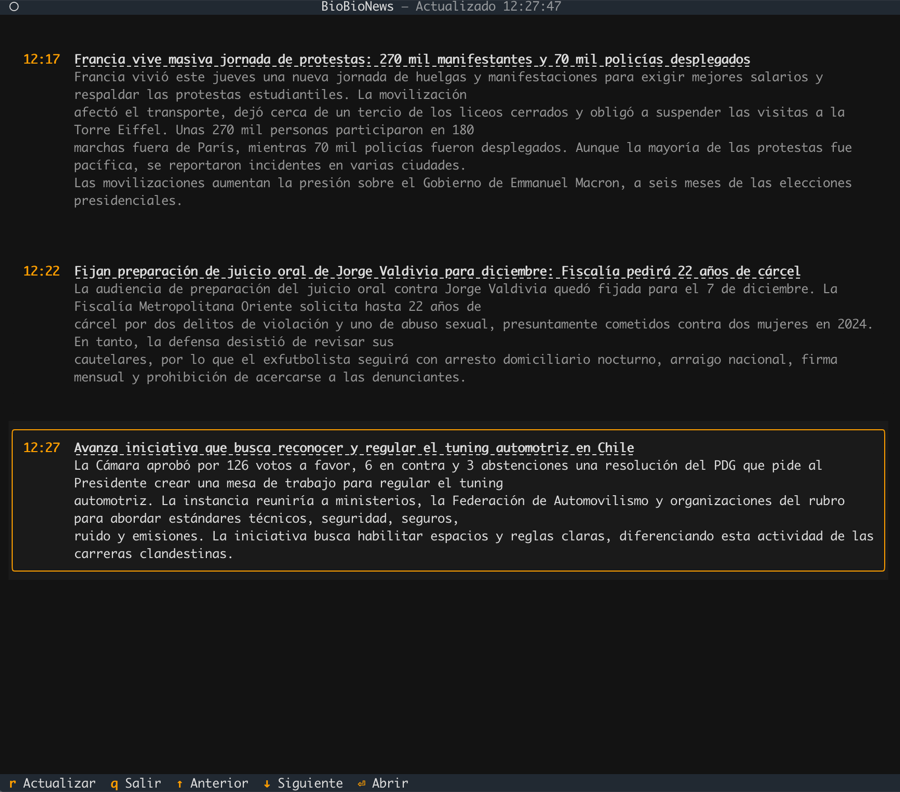
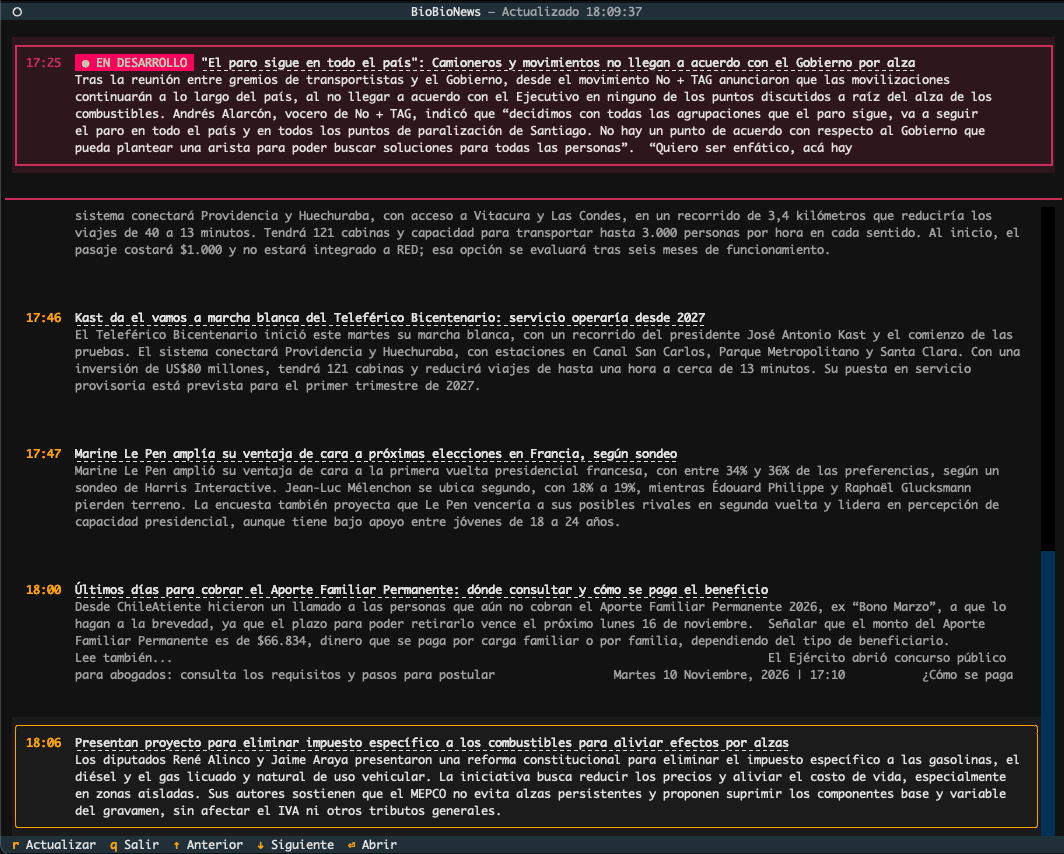
feat: filter football/entertainment news and pin live news
- Exclude football (national and international), entertainment and
  Dopamina news by category slug and URL path
- Pin news flagged en_desarrollo/nota_en_vivo above the list with a
  red badge in the TUI, and print them first in --plain mode
- Over-fetch from the API so the limit is still met after filtering

diff --git a/src/biobionews/tui.py b/src/biobionews/tui.py
@@ -25,19 +25,30 @@ class NewsList(VerticalScroll):
 
 
 class NewsItem(Horizontal):
-    def __init__(self, url: str, hour: str, title: str, body: str) -> None:
-        super().__init__()
+    def __init__(
+        self,
+        url: str,
+        hour: str,
+        title: str,
+        body: str,
+        live_label: Optional[str] = None,
+    ) -> None:
+        super().__init__(classes="-live" if live_label else "")
         self.url = url
         self.hour = hour
         self.title_text = title
         self.body_text = body
+        self.live_label = live_label
 
     def compose(self) -> ComposeResult:
         yield Static(self.hour, classes="hour")
         with Vertical(classes="text"):
-            yield Static(
-                Text(self.title_text, style=Style(link=self.url)), classes="title"
-            )
+            title = Text()
+            if self.live_label:
+                title.append(f" ● {self.live_label} ", style="bold white on red")
+                title.append(" ")
+            title.append(self.title_text, style=Style(link=self.url))
+            yield Static(title, classes="title")
             yield Static(Text(self.body_text), classes="body")
 
 
@@ -47,6 +58,11 @@ class NewsApp(App[None]):
     CSS = """
     Screen { align-horizontal: center; }
     #news { width: 100%; padding: 0 1; }
+    #pinned {
+        width: 100%; height: auto; max-height: 50%; padding: 0 1 1 1;
+        border-bottom: heavy $error;
+    }
+    #pinned.-empty { display: none; }
     NewsItem { height: auto; padding: 0 1; margin-top: 1; border: round transparent; }
     NewsItem.-selected { border: round $warning; background: $boost; }
     NewsItem .hour { width: 7; color: $warning; text-style: bold; }
@@ -54,6 +70,10 @@ class NewsApp(App[None]):
     NewsItem .title { text-style: bold; }
     NewsItem .body { color: $text-muted; }
     NewsItem.-selected .body { color: $text; }
+    NewsItem.-live { border: heavy $error; background: $error 15%; }
+    NewsItem.-live .hour { color: $error; }
+    NewsItem.-live .body { color: $text; }
+    NewsItem.-live.-selected { border: heavy $warning; }
     .status { color: $text-muted; }
     """
     BINDINGS = [
@@ -77,12 +97,13 @@ class NewsApp(App[None]):
 
     def compose(self) -> ComposeResult:
         yield Header()
+        yield NewsList(id="pinned", classes="-empty")
         yield NewsList(Static("Cargando...", classes="status"), id="news")
         yield Footer()
 
     def on_mount(self) -> None:
         if self.max_width:
-            for selector in ("Header", "#news", "Footer"):
+            for selector in ("Header", "#pinned", "#news", "Footer"):
                 self.query_one(selector).styles.max_width = self.max_width
         self.action_refresh()
         self.set_interval(REFRESH_SECONDS, self.action_refresh)
@@ -110,13 +131,15 @@ class NewsApp(App[None]):
         self.selected = len(items) - 1 if index < 0 else min(index, len(items) - 1)
         for position, item in enumerate(items):
             item.set_class(position == self.selected, "-selected")
-        container = self.query_one("#news", NewsList)
-        if self.selected == 0:
+        item = items[self.selected]
+        container = item.parent
+        regular = list(container.query_children(NewsItem))
+        if item is regular[0]:
             container.scroll_home(animate=False)
-        elif self.selected == len(items) - 1:
+        elif item is regular[-1]:
             container.scroll_end(animate=False)
         else:
-            items[self.selected].scroll_visible(animate=False)
+            item.scroll_visible(animate=False)
 
     def action_move(self, delta: int) -> None:
         self.select(self.selected + delta)
@@ -146,7 +169,9 @@ class NewsApp(App[None]):
         self.sub_title = f"Actualizado {datetime.now():%H:%M:%S}"
 
     async def render_news(self) -> None:
+        pinned = self.query_one("#pinned", NewsList)
         container = self.query_one("#news", NewsList)
+        live: List[NewsItem] = []
         items: List[NewsItem] = []
         for new in self.news:
             title = get_cleaned(new.post_title)
@@ -154,7 +179,13 @@ class NewsApp(App[None]):
                 new.post_content, new.resumen_de_ia, self.lines, self.text_width
             )
             body = "\n".join(get_cleaned(line) for line in text)
-            items.append(NewsItem(new.post_URL, new.post_hour, title, body))
+            item = NewsItem(new.post_URL, new.post_hour, title, body, new.live_label)
+            (live if new.live_label else items).append(item)
+        # Newest live news first, pinned above the scrolling list
+        live.reverse()
+        await pinned.remove_children()
+        await pinned.mount_all(live)
+        pinned.set_class(not live, "-empty")
         await container.remove_children()
         await container.mount_all(items)
         self.select(self.selected)

diff --git a/src/biobionews/biobio.py b/src/biobionews/biobio.py
@@ -1,5 +1,5 @@
 from dataclasses import dataclass
-from typing import List
+from typing import Any, Dict, List, Optional
 
 import click
 import desert
@@ -7,6 +7,39 @@ import marshmallow
 import requests
 
 API_URL = "https://www.biobiochile.cl/lista/api/get-todo?limit={limit}"
+
+# Category slugs (primary, secondary or any in post_categories) to hide
+EXCLUDED_CATEGORIES = frozenset(
+    {
+        # Futbol nacional
+        "futbol",
+        "futbol-nacional",
+        "colo-colo",
+        "universidad-catolica",
+        "universidad-de-chile",
+        "la-roja",
+        # Futbol internacional
+        "futbol-internacional",
+        "notas-futbol-internacional",
+        "chilenos-en-el-exterior",
+        # Espectaculos y farandula
+        "espectaculos-y-tv",
+        "notas-espectaculos-tv",
+        "celebridades",
+        "tv",
+        "cine-y-series",
+        "notas-cortas",
+        "dopamina",
+    }
+)
+
+# URL path prefixes to hide, catches subcategories missing from the list above
+EXCLUDED_PATHS = (
+    "/noticias/deportes/futbol/",
+    "/noticias/deportes/futbol-internacional/",
+    "/noticias/espectaculos-y-tv/",
+    "/noticias/dopamina/",
+)
 
 
 @dataclass
@@ -16,18 +49,62 @@ class New:
     post_content: str
     resumen_de_ia: str
     post_URL: str
+    en_desarrollo: Optional[bool] = False
+    nota_en_vivo: Optional[bool] = False
+
+    @property
+    def live_label(self) -> Optional[str]:
+        """Badge for live or developing news, None for regular news."""
+        if self.nota_en_vivo:
+            return "EN VIVO"
+        if self.en_desarrollo:
+            return "EN DESARROLLO"
+        return None
 
 
 schema = desert.schema(New, meta={"unknown": marshmallow.EXCLUDE}, many=True)
 
 
+def is_live(item: Dict[str, Any]) -> bool:
+    return bool(item.get("en_desarrollo") or item.get("nota_en_vivo"))
+
+
+def is_excluded(item: Dict[str, Any]) -> bool:
+    slugs = {item.get("primary"), item.get("secondary")}
+    slugs.update(category.get("slug") for category in item.get("post_categories") or [])
+    if slugs & EXCLUDED_CATEGORIES:
+        return True
+    url = item.get("post_URL") or ""
+    return any(path in url for path in EXCLUDED_PATHS)
+
+
+def select_news(data: List[Dict[str, Any]], limit: int) -> List[Dict[str, Any]]:
+    """Drop excluded news and keep the newest `limit` regular ones.
+
+    Live news are kept even beyond `limit`, since they stay pinned while they last.
+    """
+    selected = []
+    regular = 0
+    for item in data:
+        if is_excluded(item):
+            continue
+        if is_live(item):
+            selected.append(item)
+        elif regular < limit:
+            selected.append(item)
+            regular += 1
+    return selected
+
+
 def last_news(limit: int = 10) -> List[New]:
-    url = API_URL.format(limit=limit)
+    # Ask for extra news so there are still `limit` left after filtering
+    url = API_URL.format(limit=limit * 2 + 10)
 
     try:
         with requests.get(url) as response:
             response.raise_for_status()
             data = response.json()
+            data = select_news(data, limit)
             data.reverse()
             return schema.load(data)
     except (requests.RequestException, marshmallow.ValidationError) as error:

diff --git a/tests/test_biobio.py b/tests/test_biobio.py
@@ -1,9 +1,85 @@
+from typing import Any, Dict, List
 from unittest.mock import Mock
+
+import pytest
 
 from biobionews import biobio
 
 
-def test_last_news_uses_given_limit(mock_requests_get: Mock) -> None:
+def make_item(title: str, primary: str = "nacional", **extra: Any) -> Dict[str, Any]:
+    item = {
+        "post_title": title,
+        "post_hour": "10:20",
+        "post_content": "bar",
+        "post_URL": f"https://www.biobiochile.cl/noticias/{primary}/x/{title}.shtml",
+        "resumen_de_ia": "",
+        "primary": primary,
+        "secondary": "",
+        "post_categories": [],
+    }
+    item.update(extra)
+    return item
+
+
+def set_response(mock: Mock, items: List[Dict[str, Any]]) -> None:
+    mock.return_value.__enter__.return_value.json.return_value = items
+
+
+def test_last_news_requests_more_than_limit(mock_requests_get: Mock) -> None:
     biobio.last_news(limit=15)
     args, _ = mock_requests_get.call_args
-    assert "limit=15" in args[0]
+    assert "limit=40" in args[0]
+
+
+def test_last_news_trims_to_limit_keeping_newest(mock_requests_get: Mock) -> None:
+    # API returns newest first; result is oldest first
+    set_response(mock_requests_get, [make_item(str(n)) for n in range(5)])
+    news = biobio.last_news(limit=3)
+    assert [new.post_title for new in news] == ["2", "1", "0"]
+
+
+@pytest.mark.parametrize(
+    "item",
+    [
+        make_item("a", primary="futbol", secondary="colo-colo"),
+        make_item("b", primary="futbol-internacional"),
+        make_item("c", primary="espectaculos-y-tv", secondary="celebridades"),
+        make_item("d", primary="notas-cortas", secondary="dopamina"),
+        make_item("e", primary="servicios", post_categories=[{"slug": "la-roja"}]),
+        make_item(
+            "f",
+            primary="otra",
+            post_URL="https://www.biobiochile.cl/noticias/deportes/futbol/audax/x.shtml",
+        ),
+    ],
+)
+def test_last_news_excludes_football_and_shows(
+    mock_requests_get: Mock, item: Dict[str, Any]
+) -> None:
+    set_response(mock_requests_get, [item, make_item("ok")])
+    news = biobio.last_news(limit=10)
+    assert [new.post_title for new in news] == ["ok"]
+
+
+def test_last_news_keeps_other_sports(mock_requests_get: Mock) -> None:
+    set_response(
+        mock_requests_get, [make_item("tenis", primary="deportes", secondary="tenis")]
+    )
+    assert len(biobio.last_news(limit=10)) == 1
+
+
+def test_last_news_keeps_live_news_beyond_limit(mock_requests_get: Mock) -> None:
+    items = [make_item(str(n)) for n in range(3)]
+    items.append(make_item("live", en_desarrollo=True))
+    set_response(mock_requests_get, items)
+    news = biobio.last_news(limit=2)
+    assert [new.post_title for new in news] == ["live", "1", "0"]
+    assert news[0].live_label == "EN DESARROLLO"
+    assert news[1].live_label is None
+
+
+def test_live_label_prefers_en_vivo(mock_requests_get: Mock) -> None:
+    set_response(
+        mock_requests_get, [make_item("a", en_desarrollo=True, nota_en_vivo=True)]
+    )
+    assert biobio.last_news()[0].live_label == "EN VIVO"

diff --git a/src/biobionews/console.py b/src/biobionews/console.py
@@ -47,13 +47,18 @@ def main(limit: int, width: Optional[int], lines: int, plain: bool) -> None:
         width = shutil.get_terminal_size().columns
     data = biobio.last_news(limit=limit)
 
-    # Reverse the data to show the latest news first
+    # Reverse the data to show the latest news first, live news on top
     data = data[::-1]
+    data.sort(key=lambda new: new.live_label is None)
 
     for new in data:
         title = f"{new.post_hour} {get_cleaned(new.post_title)}"
         clickable_title = make_clickable(new.post_URL, title)
-        click.secho(clickable_title, fg="yellow")
+        if new.live_label:
+            badge = click.style(f" ● {new.live_label} ", fg="white", bg="red", bold=True)
+            click.echo(f"{badge} {click.style(clickable_title, fg='red', bold=True)}")
+        else:
+            click.secho(clickable_title, fg="yellow")
         text_lines = post_or_ia(new.post_content, new.resumen_de_ia, lines, width)
         for line in text_lines:
             click.echo(get_cleaned(line))

diff --git a/README.md b/README.md
@@ -33,6 +33,10 @@ PYTHONPATH=src .venv/bin/python -m biobionews --limit 10
 
 Teclas: `↑`/`↓` navegar entre noticias, `enter` abrir en el navegador, `r` actualizar, `q` salir. Se actualiza solo cada 1 minuto. Por defecto usa todo el ancho de la pantalla (limitable con `--width`).
 
+Se omiten las noticias de fútbol (nacional e internacional), espectáculos y farándula (incluye Dopamina). Las categorías excluidas están en `EXCLUDED_CATEGORIES` y `EXCLUDED_PATHS` de `src/biobionews/biobio.py`.
+
+Las noticias "en desarrollo" o "en vivo" quedan fijas arriba del listado, destacadas en rojo (en `--plain` se imprimen primero).
+
 Opciones: `--plain` (imprime sin TUI), `--limit/-l` (cantidad de noticias), `--width/-w` (ancho del texto), `--lines/-n` (líneas por noticia).
 
 ### 4. Tests
